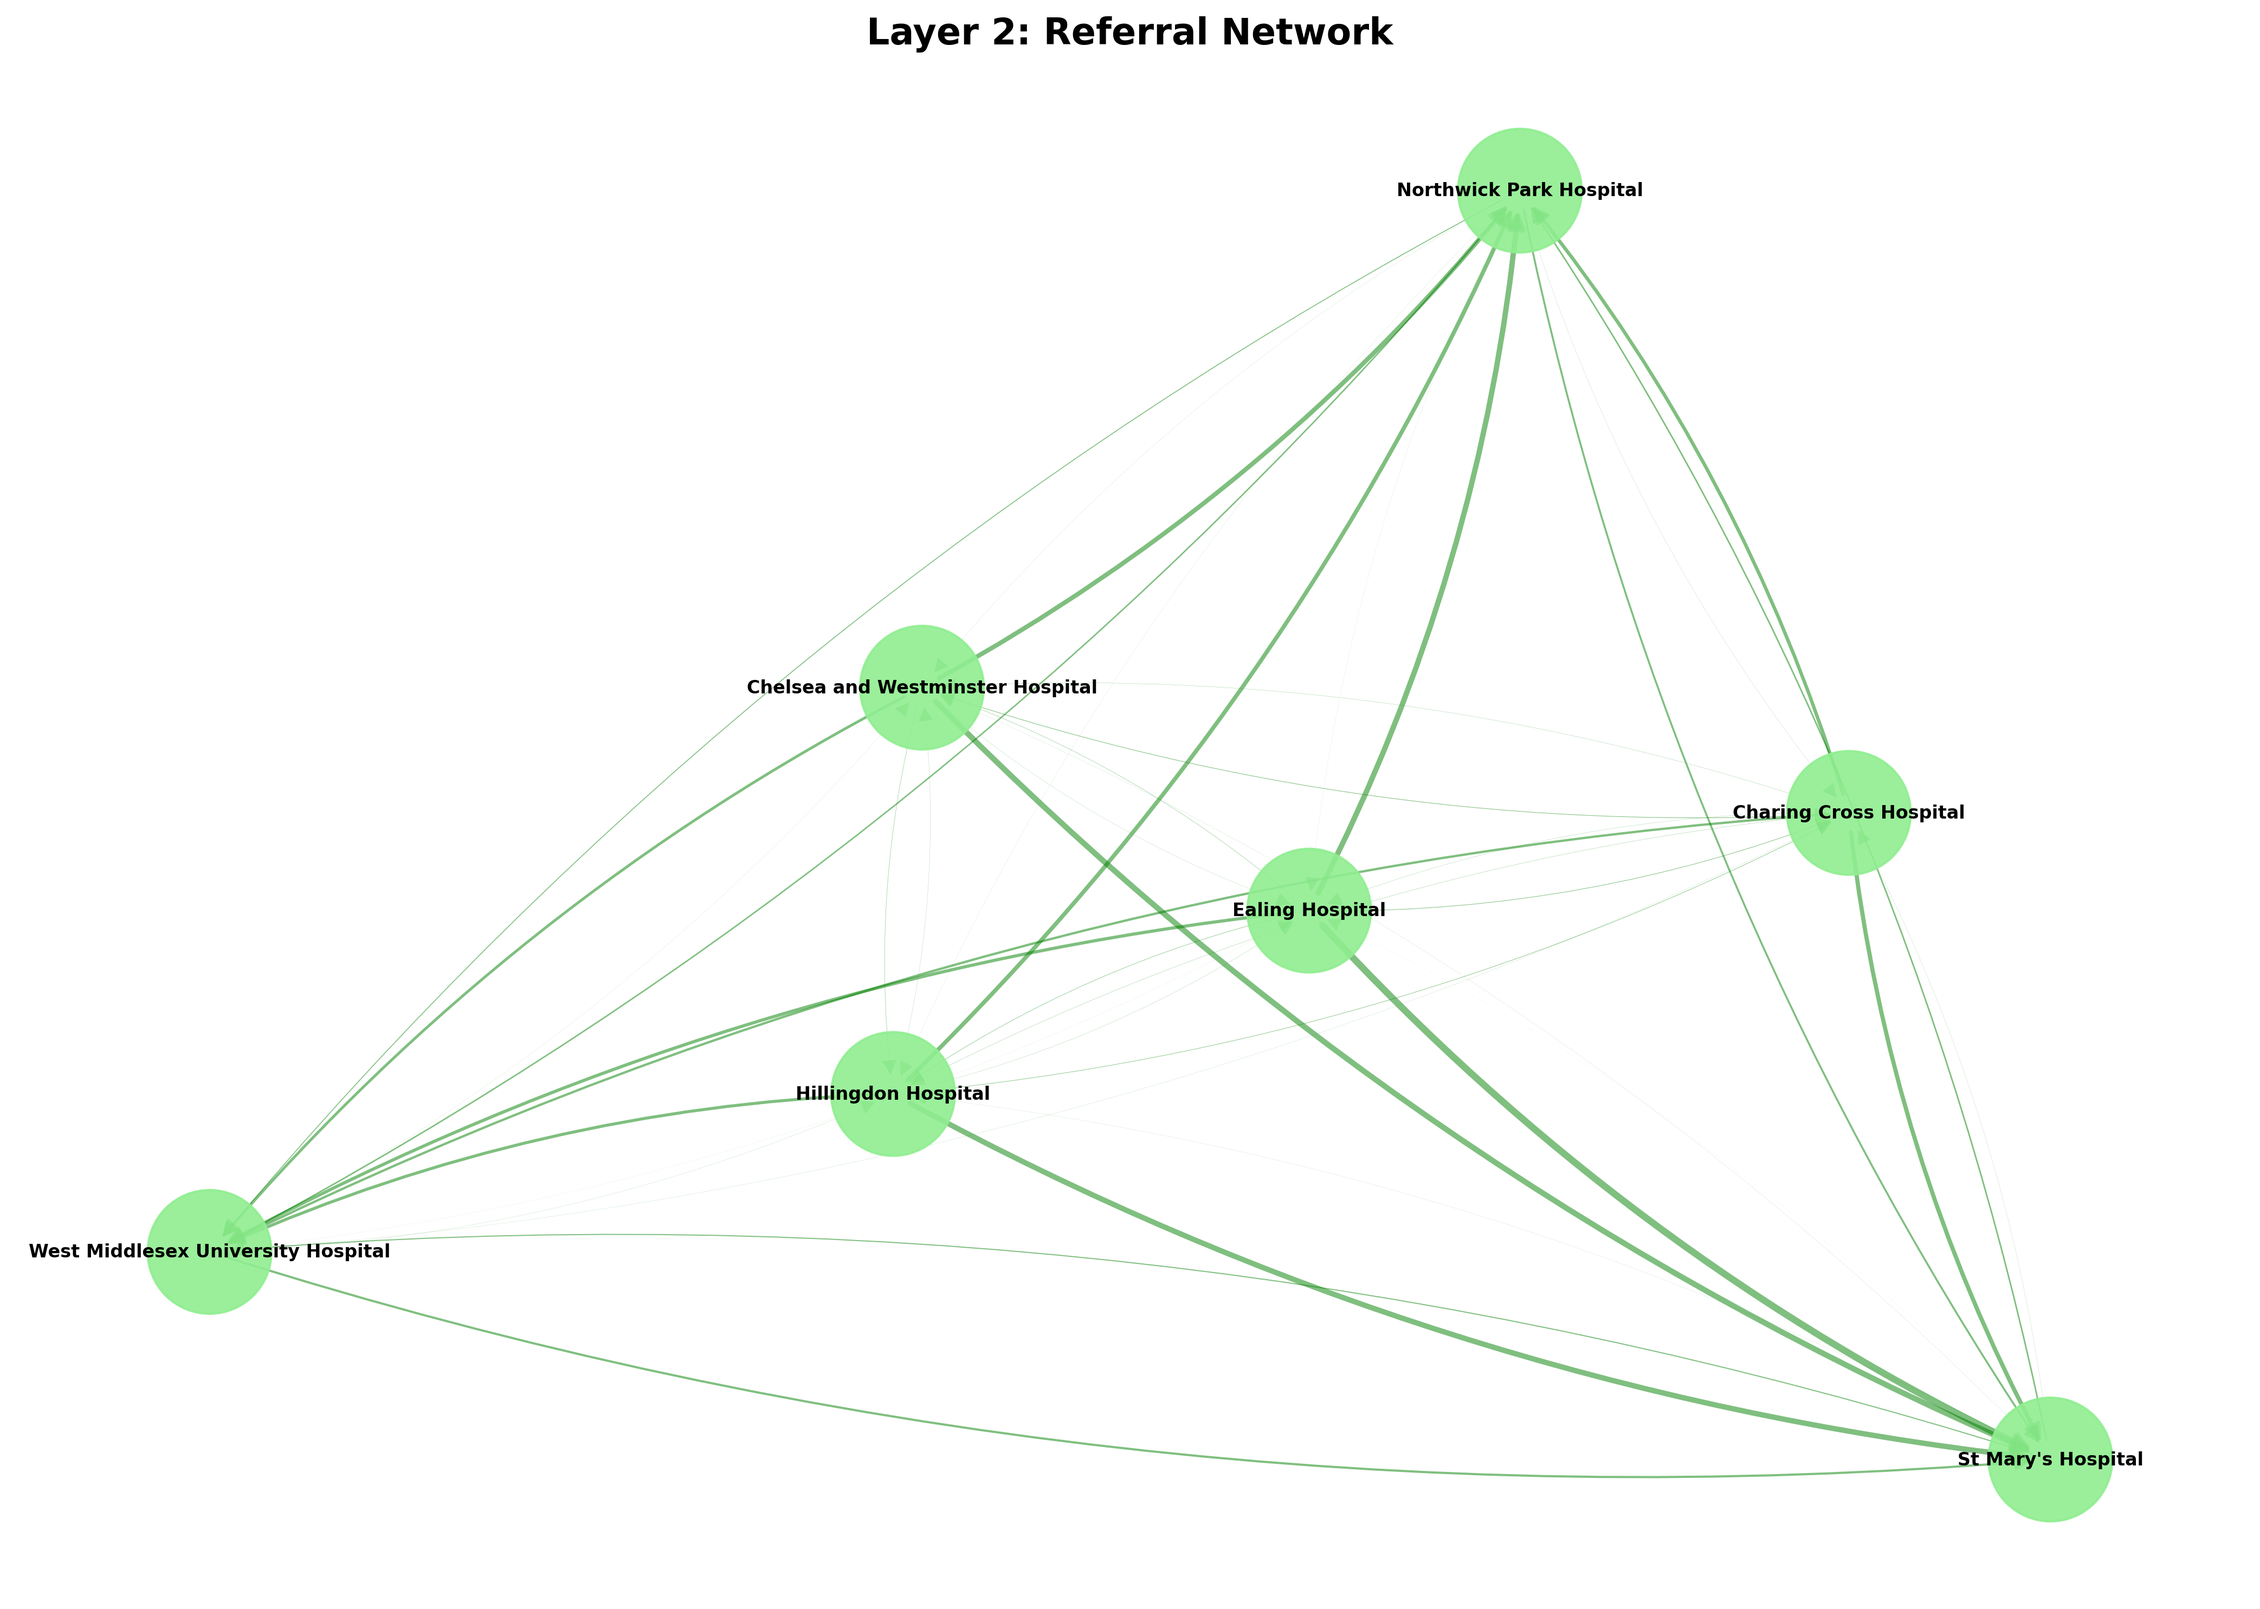
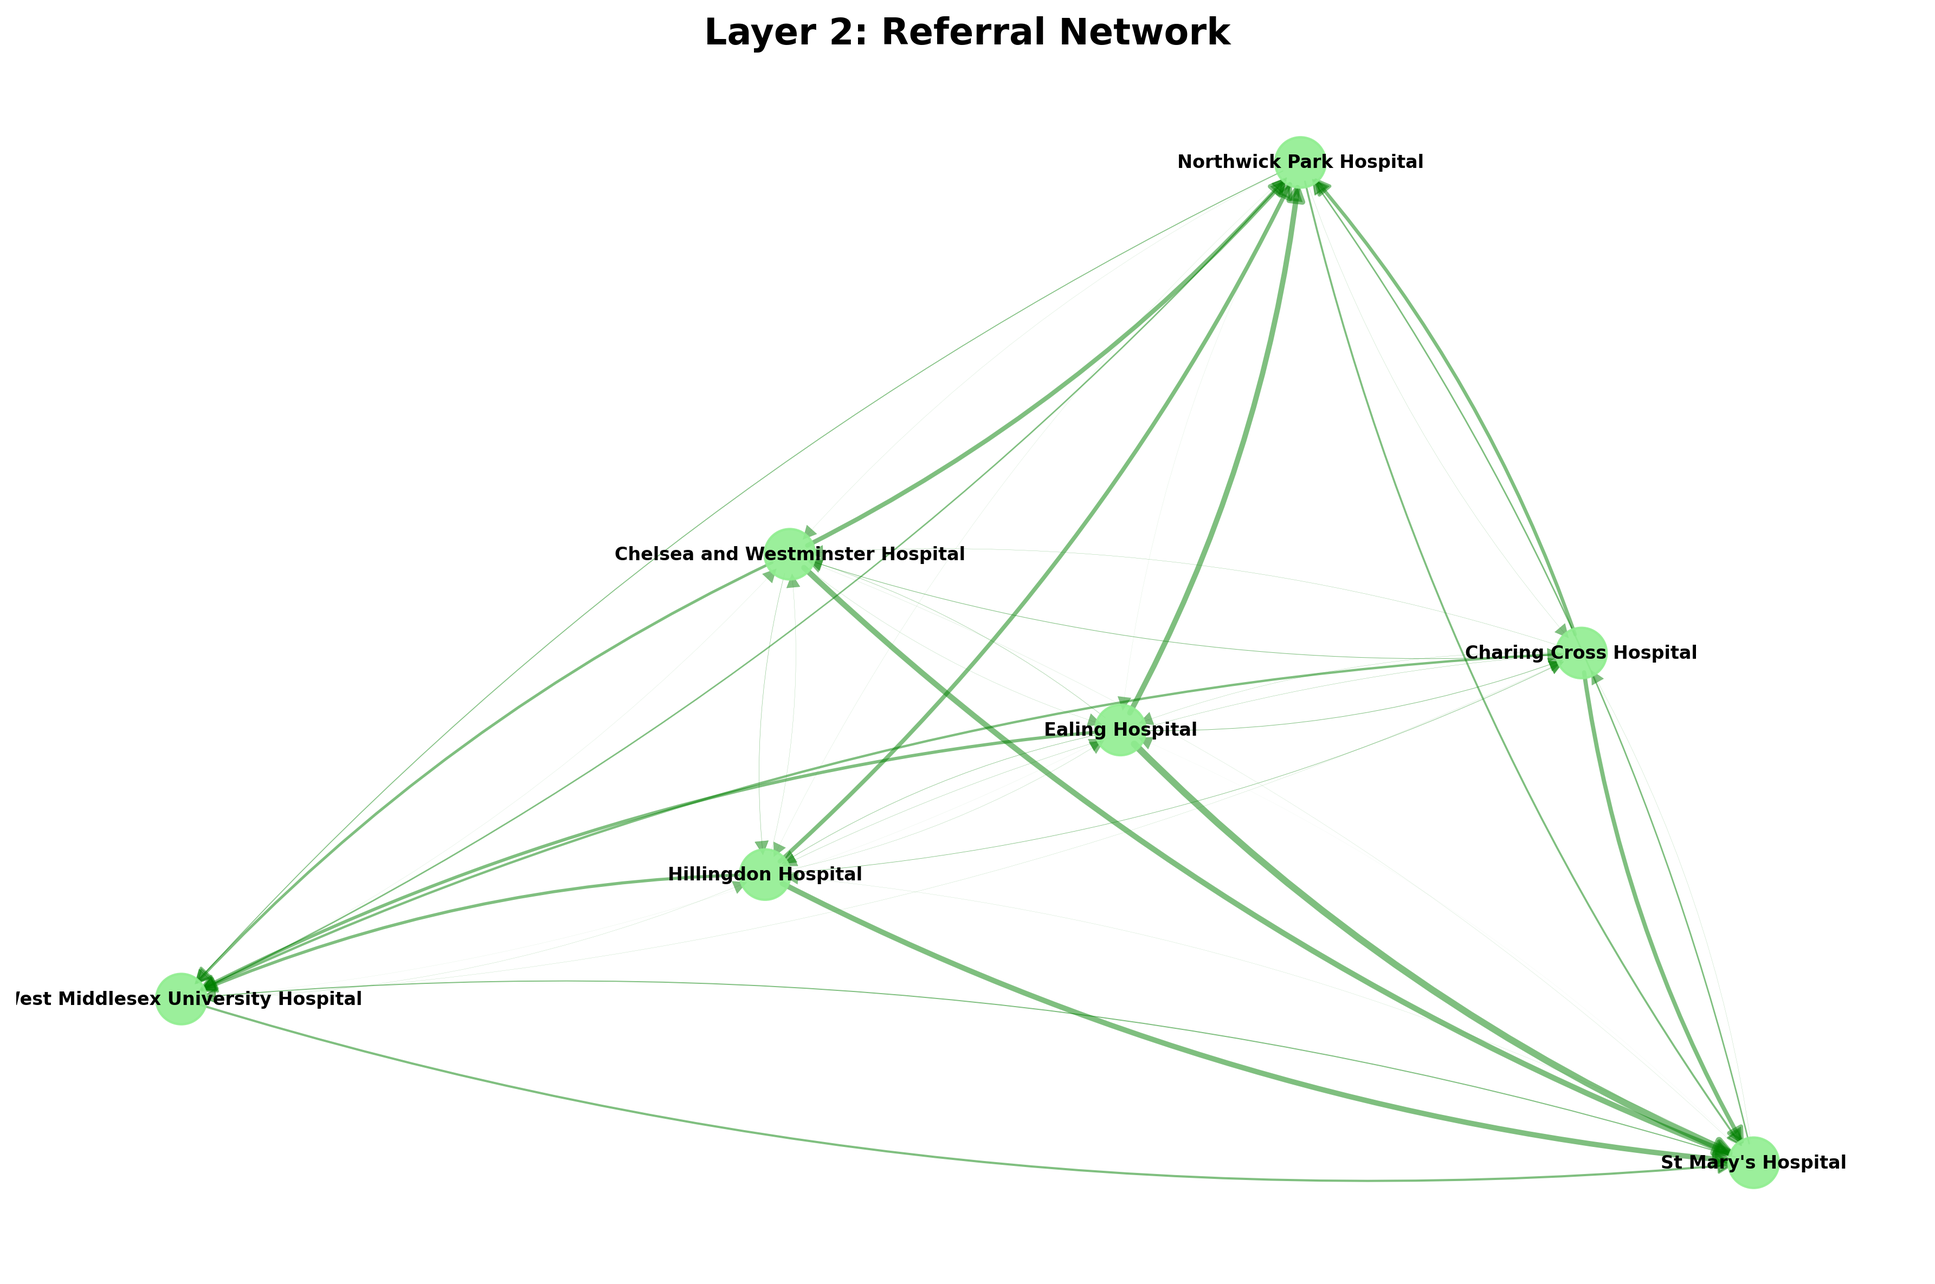
add

diff --git a/code/01_network_analysis/01_build_network.py b/code/01_network_analysis/01_build_network.py
@@ -45,7 +45,7 @@ geo_hospital_coords = gpd.GeoDataFrame(hospital_coords,
 print(geo_hospital_coords)
 
 ############## Plot NWL LSOAs and hospitals
-ax = nwl_lsoa.plot(figsize=(10, 10), color='lightgrey',
+ax = nwl_lsoa.plot(figsize=(12, 8), color='lightgrey',
                     edgecolor='darkgrey', alpha=0.5)
 
 hospital_colors = {
@@ -389,18 +389,17 @@ visualize_transfer_network(G_transfer)
 plt.savefig('layer1_transfer_network.png', dpi=300, bbox_inches='tight')
 plt.show()
 
-
-############### Geographic Transfer Network on Map ###############
+############### Geographic Transfer Network on Map (NetworkX Version) ###############
 
 def plot_transfer_network_on_map(nwl_lsoa, geo_hospital_coords, G_transfer, hospital_colors):
     """Simple overlay of transfer network on LSOA map using NetworkX"""
-    fig, ax = plt.subplots(figsize=(16, 14))
+    fig, ax = plt.subplots(figsize=(12, 8))
     
     # 1. Plot LSOAs as base layer
     nwl_lsoa.plot(ax=ax, color='lightgrey', edgecolor='darkgrey', 
                   alpha=0.3, linewidth=0.5)
     
-    # 2. Create position dictionary for NetworkX (hospital coordinates)
+    # 2. Create position dictionary (hospital coordinates)
     pos = {}
     for idx, row in geo_hospital_coords.iterrows():
         hospital_name = row['hospital_name']
@@ -431,29 +430,20 @@ def plot_transfer_network_on_map(nwl_lsoa, geo_hospital_coords, G_transfer, hosp
     for node in G_transfer.nodes():
         # Size based on transfer volume
         transfers = weighted_in_degree.get(node, 0)
-        size = 300 + 1000 * (transfers / max_transfers) if max_transfers > 0 else 500
+        size = 50 + 200 * (transfers / max_transfers) if max_transfers > 0 else 100
         node_sizes.append(size)
         
         # Color from hospital_colors dictionary
         node_colors_list.append(hospital_colors.get(node, 'gray'))
     
-    # 6. Draw hospital nodes 
+    # 6. Draw hospital nodes using NetworkX
     nx.draw_networkx_nodes(G_transfer, pos,
                           node_color=node_colors_list,
                           node_size=node_sizes,
-                          edgecolors='black',
+                          edgecolors= None,
                           linewidths=2,
                           alpha=0.9,
                           ax=ax)
-    
-    # 7. Draw hospital labels
-    labels = {node: node.replace(' Hospital', '') for node in G_transfer.nodes()}
-    nx.draw_networkx_labels(G_transfer, pos,
-                           labels=labels,
-                           font_size=8,
-                           font_weight='bold',
-                           font_color='black',
-                           ax=ax)
     
     # 8. Create legend
     legend_patches = [mpatches.Patch(color=color, label=hospital) 
@@ -486,17 +476,46 @@ def plot_transfer_network_on_map(nwl_lsoa, geo_hospital_coords, G_transfer, hosp
 
 
 # Use the function
-print("\nCreating geographic transfer network...")
+print("\nCreating geographic transfer network with NetworkX...")
 fig, ax = plot_transfer_network_on_map(nwl_lsoa, geo_hospital_coords, G_transfer, hospital_colors)
 plt.savefig('nwl_map_with_network.png', dpi=300, bbox_inches='tight')
 plt.show()
 
 
 
+def visualize_referral_network(G, title="Layer 2: Referral Network"):
+    """Visualize the referral network"""
+    plt.figure(figsize=(12, 8))
+    
+    pos = nx.spring_layout(G, k=2, iterations=50, seed=42)
+    
+    # Node sizes based on in-degree (receiving referrals)
+    in_degrees = dict(G.in_degree())
+    max_in_degree = max(in_degrees.values()) if in_degrees else 1
+    node_sizes = [500 * in_degrees[node] / max_in_degree for node in G.nodes()]
+    
+    # Edge widths
+    edges = G.edges()
+    weights = [G[u][v]['weight'] for u, v in edges]
+    max_weight = max(weights) if weights else 1
+    edge_widths = [3 * w / max_weight for w in weights]
+    
+    # Draw network
+    nx.draw_networkx_nodes(G, pos, node_color='lightgreen', 
+                          node_size=node_sizes, alpha=0.9)
+    nx.draw_networkx_labels(G, pos, font_size=8, font_weight='bold')
+    nx.draw_networkx_edges(G, pos, width=edge_widths, alpha=0.5, 
+                          arrows=True, arrowsize=15, edge_color='green',
+                          connectionstyle='arc3,rad=0.1')
+    
+    plt.title(title, fontsize=16, fontweight='bold')
+    plt.axis('off')
+    plt.tight_layout()
+    return plt
 
 def visualize_integrated_network(G, title="Multi-Layered Integrated HIE Network"):
     """Visualize the integrated network with all layers"""
-    plt.figure(figsize=(16, 12))
+    plt.figure(figsize=(12, 8))
     
     # Layout
     pos = nx.spring_layout(G, k=3, iterations=50, seed=42)
@@ -508,7 +527,7 @@ def visualize_integrated_network(G, title="Multi-Layered Integrated HIE Network"
     # Ensure hospital_nodes is defined from the graph's nodes
     hospital_nodes = list(G.nodes())
 
-    hospital_sizes = [2000 * degrees[node] / max_degree for node in hospital_nodes]
+    hospital_sizes = [500 * degrees[node] / max_degree for node in hospital_nodes]
     
     # Draw nodes
     nx.draw_networkx_nodes(G, pos, nodelist=hospital_nodes, 
